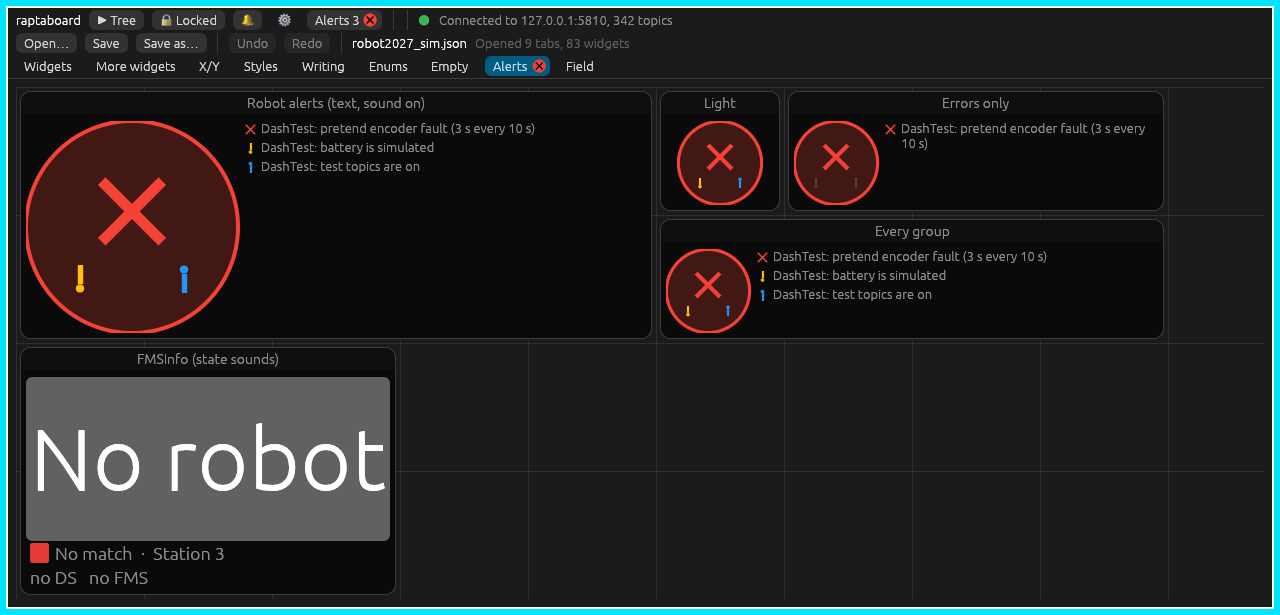
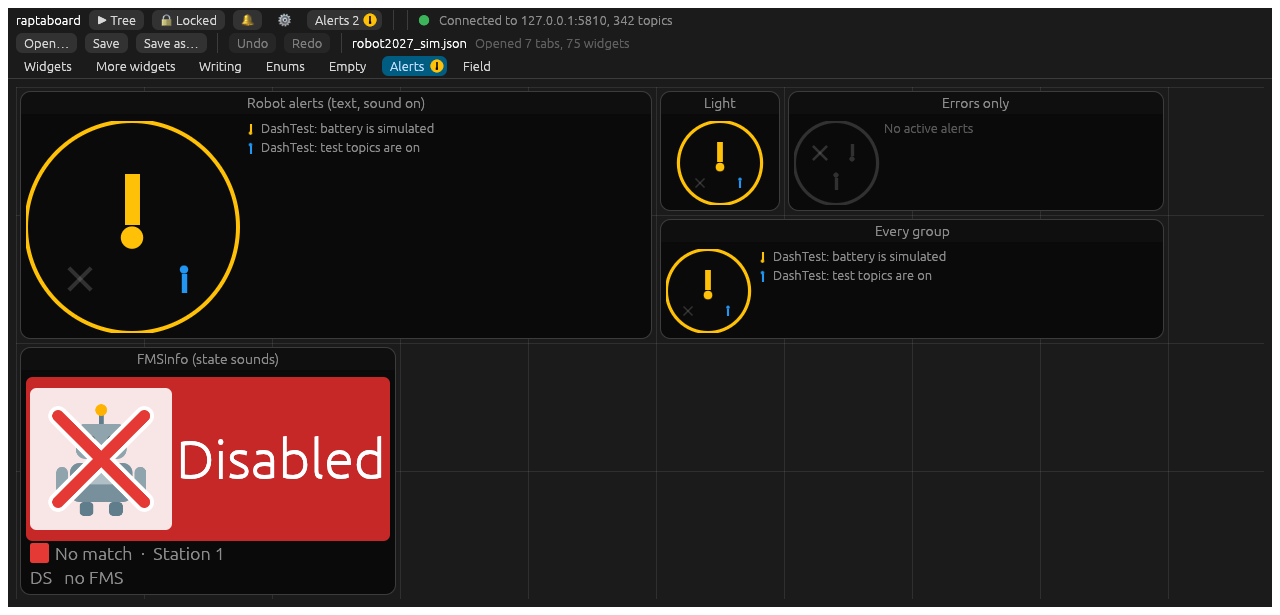
Book pictures: keep the old ones that only changed by timing
Retaking every picture changed each one a little (the sim's values move)
and made FMSInfo worse: "No robot" without a Driver Station, where the
old one showed Disabled. Only the five new pictures stay (the X/Y and
Styles tabs, X/Y and Polar Graph, the settings dialog). The recorder now
retakes only the pictures RAPTABOARD_SHOTS names, when it's set.

diff --git a/crates/app/src/ui/tests/clips.rs b/crates/app/src/ui/tests/clips.rs
@@ -7,7 +7,13 @@
 //!
 //! ```sh
 //! cargo test -p raptaboard --lib record_ -- --ignored --nocapture
+//! # Only some pictures: file names (or folder/name), the rest left as they are.
+//! RAPTABOARD_SHOTS=x-y-graph,tabs/styles cargo test -p raptaboard --lib record_docs -- --ignored
 //! ```
+//!
+//! Retake only the pictures whose widgets changed: the sim's values move,
+//! so every picture taken again differs a little, and some can come out
+//! worse (FMSInfo without a Driver Station says "No robot").
 
 // Tests written by Claude.
 
@@ -314,8 +320,46 @@ fn show_tab(harness: &mut Harness, tab: &str, seconds: u64) {
     }
 }
 
-/// Save `image` at `path` (from the repo's root), making its folder.
+/// Whether to save the picture at `path` when `only` (the `RAPTABOARD_SHOTS`
+/// setting) lists some: each a file name without `.png` (`fmsinfo`), or with
+/// its folder (`tabs/styles`), comma-separated. None set: every picture.
+/// Retaking only what changed keeps the others' values, and their good
+/// moments (a robot shown disabled, not "No robot"), as they were.
+fn wanted(path: &str, only: Option<&str>) -> bool {
+    let Some(only) = only.map(str::trim).filter(|o| !o.is_empty()) else {
+        return true;
+    };
+    let stem = path.trim_end_matches(".png");
+    let file = stem.rsplit('/').next().unwrap_or(stem);
+    let named = |name: &str| {
+        let by_file = name == file;
+        let by_folder = name.contains('/') && stem.ends_with(&format!("/{name}"));
+        by_file || by_folder
+    };
+    only.split(',').map(str::trim).any(named)
+}
+
+#[test]
+fn only_the_pictures_asked_for_are_retaken() {
+    let all = |path| wanted(path, None);
+    assert!(all("book/src/images/widgets/fmsinfo.png"));
+    let only = |path| wanted(path, Some("x-y-graph, tabs/styles"));
+    assert!(only("book/src/images/widgets/x-y-graph.png"));
+    assert!(only("book/src/images/tabs/styles.png"));
+    assert!(
+        !only("book/src/images/widgets/styles.png"),
+        "another folder's"
+    );
+    assert!(!only("book/src/images/widgets/fmsinfo.png"));
+    assert!(wanted("book/src/images/widgets/fmsinfo.png", Some(" ")));
+}
+
+/// Save `image` at `path` (from the repo's root), making its folder, unless
+/// `RAPTABOARD_SHOTS` names other pictures ([`wanted`]).
 fn save_png(image: &RgbaImage, path: &str) {
+    if !wanted(path, std::env::var("RAPTABOARD_SHOTS").ok().as_deref()) {
+        return;
+    }
     let root = Path::new(env!("CARGO_MANIFEST_DIR")).join("../..");
     let out = root.join(path);
     std::fs::create_dir_all(out.parent().unwrap()).expect("make the folder");

diff --git a/CLAUDE.md b/CLAUDE.md
@@ -41,8 +41,10 @@ python3 scripts/check_book.py      # every chapter, link and image resolves
 cargo test -p raptaboard --lib record_field_clip -- --ignored --nocapture
 # The Microsoft Store listing's screenshots (media/store/; needs a GPU and robot-2027's sim running here):
 cargo test -p raptaboard --lib record_store_screenshots -- --ignored --nocapture
-# The book's screenshots (book/src/images/tabs, widgets, window; needs a GPU and robot-2027's sim running here):
-cargo test -p raptaboard --lib record_docs_screenshots -- --ignored --nocapture
+# The book's screenshots (book/src/images/tabs, widgets, window; needs a GPU and robot-2027's sim running here).
+# Retake only the pictures that changed (RAPTABOARD_SHOTS: file names or folder/name), so the others keep their
+# values and good moments; review each picture before committing, and revert any that came out worse:
+RAPTABOARD_SHOTS=x-y-graph,tabs/styles cargo test -p raptaboard --lib record_docs_screenshots -- --ignored --nocapture
 # Log pointer and touch input to the terminal (input_log.rs: egui's events each frame and what the
 # Field's target made of them), for odd clicks and taps:
 RAPTABOARD_LOG_INPUT=1 cargo run -p raptaboard -- --address sim layouts/robot2027_sim.json
